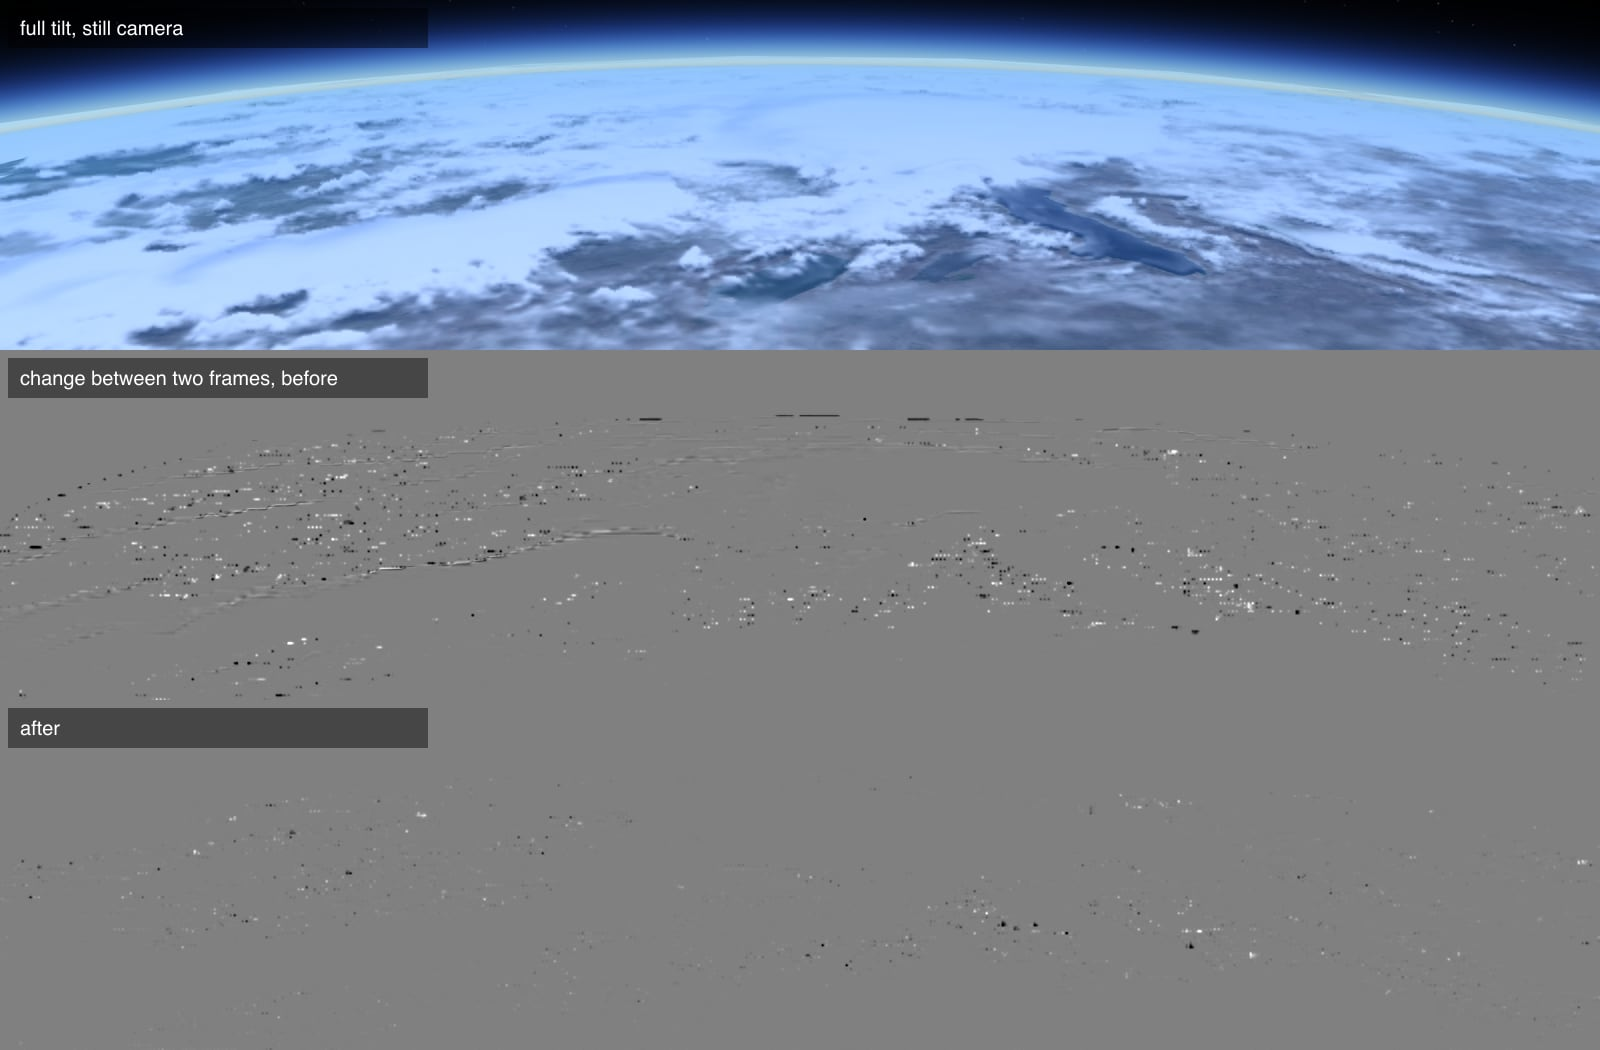
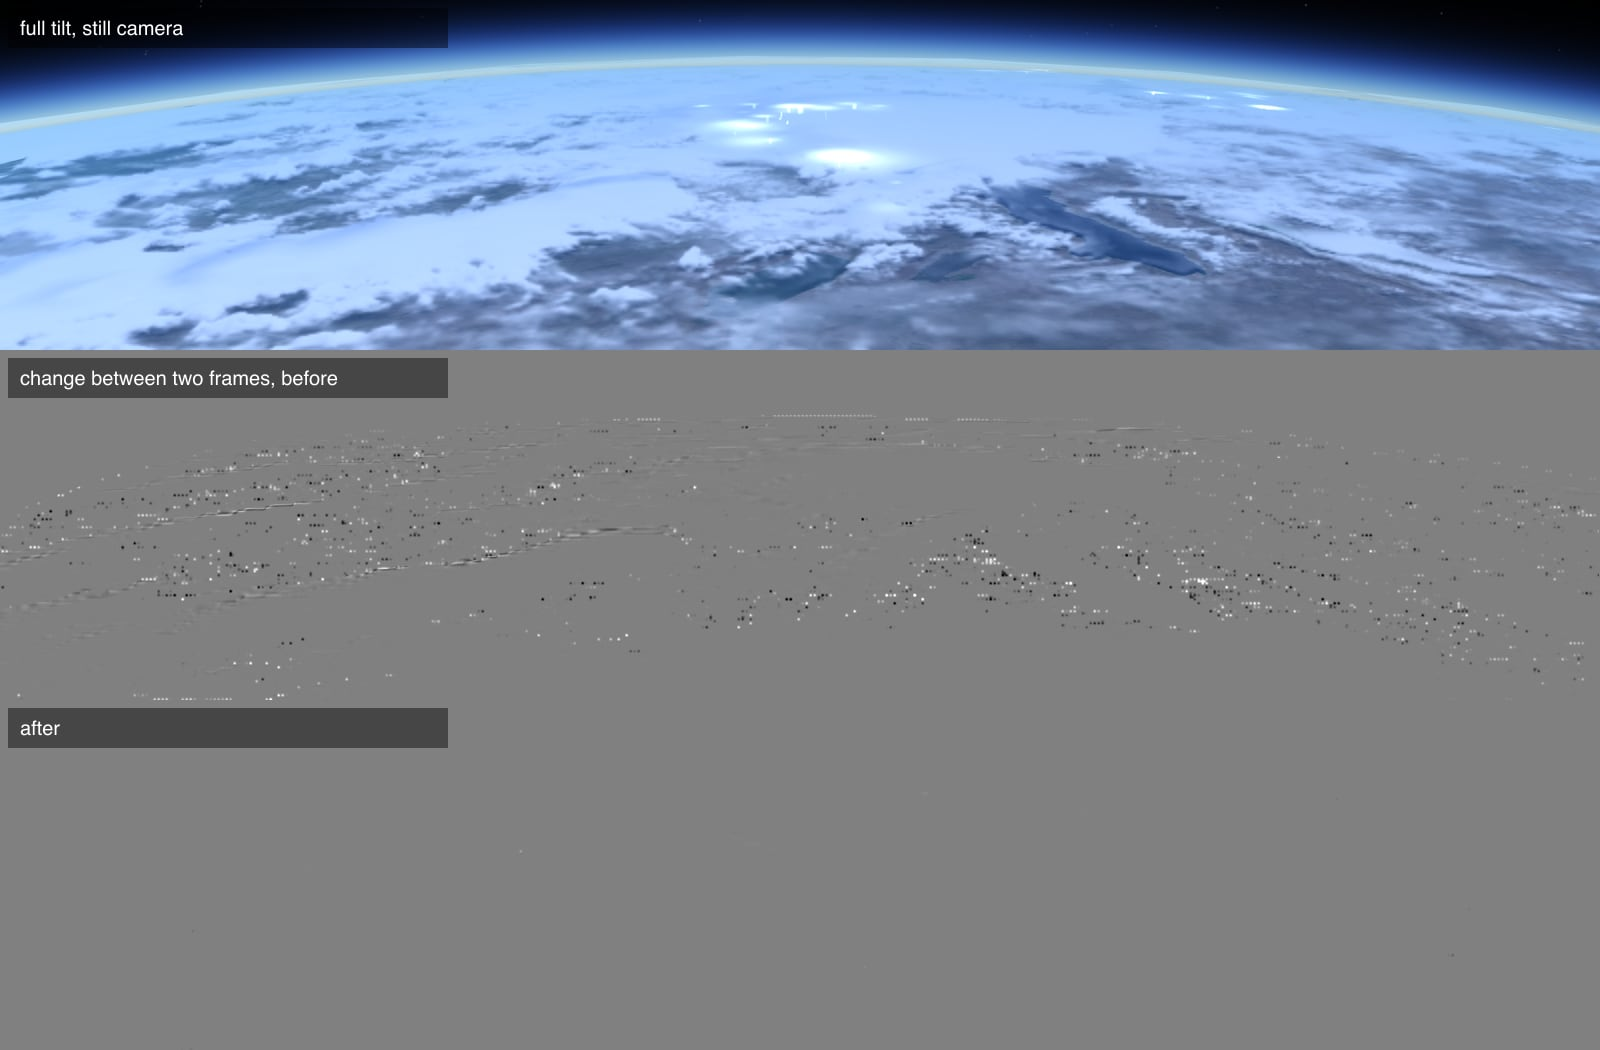
docs: record how a still view settles and holds its clouds

diff --git a/docs/cloud-look.md b/docs/cloud-look.md
@@ -265,35 +265,41 @@ the ten strongest storms of each day.
 
 ## Steady in motion
 
-Zooming and tilting made the clouds vibrate (#440), most of all toward the horizon at full tilt.
-Measured frame by frame in headless Chromium, the camera's own motion taken out, three causes:
+Zooming and tilting made the clouds vibrate (#440), most of all toward the horizon at full tilt, and
+even a still picture never quite held. Measured frame by frame in headless Chromium, the camera's own
+motion taken out, four causes:
 
-- **Sparkling cloud edges while the view moves**: the volume marches a quarter of its pixels per
-  frame with jittered rays; each new ray weighed 35 % and showed as a dot wherever it hit or missed
-  a cloud edge, at another pixel every frame. A moving view now keeps its rays in place, spreads each
-  new ray over its neighbours and gives it 20 %.
-- **Shimmer toward the horizon, even with a still camera**: a ray grazing far clouds hits or misses
-  them at random, which passed for a change of cover and let it weigh 60 %; and the relief light was
-  read at the height this frame's rays saw, so each km of jitter moved the lookup by tens of km. A
-  change of cover is now read over four rays, and the relief light where the line of sight crosses
-  the tops the field holds.
+- **A still picture that kept boiling**: the volume marches a quarter of its pixels per frame with
+  jittered rays and kept each new one at 5 %, so the picture never settled; it was clamped to the
+  four rays around, which a ray grazing far clouds often all miss, and any ray that hit or missed a
+  cloud passed for a change of cover (60 %). A still view now averages every ray since it stopped,
+  down to 1/128 a ray, held within the sixteen rays around, and a change of cover counts only beyond
+  what those rays disagree on.
+- **Relief light shimmering toward the horizon**: it was read at the height this frame's rays saw,
+  so each km of jitter moved the lookup by tens of km in a grazing view. It is now read where the
+  line of sight crosses the tops the field holds.
+- **Sparkling cloud edges while the view moves**: each new ray weighed 35 % and showed as a dot. A
+  moving view now keeps its rays in place, spreads each new ray over its neighbours and gives it 20 %.
 - **Dark band toward the horizon**: the flat layer stepped aside wherever heights were known on its
   13 km shell, while the volume met lower clouds further along the line of sight, past the heights
   it knew. The layer now also checks where its line of sight comes down to 0.5 km.
 
-Pixels changing by more than 12 grey levels from one frame to the next once the camera's motion is
-taken out, 1600 × 1000 at 2×, same data before and after:
+Pixels changing by more than 4 and by more than 12 grey levels from one frame to the next once the
+camera's motion is taken out, 1600 × 1000 at 2×, same data before and after:
 
-| Camera | Before | After |
-|---|---|---|
-| Still at the floor, full tilt | 0.61 % | 0.13 % |
-| Turning 4° at the floor, full tilt | 0.55 % | 0.08 % |
-| Tilting 86° to 90° at the floor | 0.35 % | 0.01 % |
-| Still at 700 km, tilted 58° | 0.165 % | 0.016 % |
-| Tilting 50° to 54° at 450 km | 0.145 % | 0.014 % |
-| Tilting 0° to 80° at 450 km | 0.81 % | 0.43 % |
-| Zoom 2,600 to 500 km, tilted 45° | 0.162 % | 0.034 % |
-| Zoom 3,000 to 500 km, straight down | 0.036 % | 0.015 % |
+| Camera | Before > 4 | After > 4 | Before > 12 | After > 12 |
+|---|---|---|---|---|
+| Still at the floor, full tilt | 2.7 % | 0.006 % | 0.60 % | 0.001 % |
+| Still at 700 km, tilted 58° | 0.83 % | 0.001 % | 0.16 % | 0.0001 % |
+| Turning 4° at the floor, full tilt | 3.2 % | 0.63 % | 0.54 % | 0.013 % |
+| Tilting 86° to 90° at the floor | 2.4 % | 0.21 % | 0.46 % | 0.021 % |
+| Tilting 50° to 54° at 450 km | 1.4 % | 0.24 % | 0.145 % | 0.012 % |
+| Tilting 0° to 80° at 450 km | 5.2 % | 4.1 % | 0.81 % | 0.47 % |
+| Zoom 2,600 to 500 km, tilted 45° | 1.7 % | 0.53 % | 0.162 % | 0.031 % |
+| Zoom 3,000 to 500 km, straight down | 1.0 % | 0.62 % | 0.036 % | 0.015 % |
+
+After a stop the picture settles within a second and then holds; after a 25 min jump in scene time a
+still view meets the picture drawn directly at the new time within 20 frames.
 
 Full tilt with a still camera, and what changes between two frames:
 ![Steady toward the horizon](immersive/cloud-look/horizon.jpg)

diff --git a/docs/immersive-view.md b/docs/immersive-view.md
@@ -493,19 +493,21 @@ captures and the comparison with ISS photographs are in [cloud look](cloud-look.
   place, frames, tiles or sun change (at most one every other frame); windows fade into each other
   near their edges. Above the march only the coarse windows are baked, one at a time, and a window
   moves only once the view has gone 32 of its texels.
-- **March**: half the CSS resolution, a quarter of the pixels per frame, the rest reprojected at
-  the depth the march returns; at most 48 crossings per ray (`high`) or 40 (`medium`). Each column
-  crossing is integrated in one piece, sunlight falling with depth below the top in closed form,
-  so the picture does not depend on where steps fall. While the view holds still, steps and rays get
-  low-discrepancy offsets that a history averages, shortened where the cover of four neighbouring
-  rays changes. While it moves, rays stay in place, each new ray is spread over its neighbours and
-  weighs 20 %, and the history is clamped to what was just marched, so cloud edges do not sparkle.
-  Flashes light the cloud around them from the flash light map, added in the composite so the glow
-  is never delayed. Sunlit tops take the flat layer's white and its √(sin elevation) dimming, and
-  under a high sun the exposure comes down; a highlight shoulder keeps them below white. The
-  composite draws the relief light at full resolution after the shoulder, at every height, where
-  the line of sight crosses the tops the field holds; the march keeps the light through the
-  columns, the walls and the sky. The atmosphere hazes the volume as it hazes the flat layer.
+- **March**: half the CSS resolution, a quarter of the pixels per frame, the rest reprojected at the
+  depth the march returns; at most 48 crossings per ray (`high`) or 40 (`medium`). Each column
+  crossing is integrated in one piece, sunlight falling with depth below the top in closed form, so
+  the picture does not depend on where steps fall. While the view holds still, steps and rays get
+  low-discrepancy offsets that a history averages ever more finely (down to 1/128 a ray), held
+  within the sixteen rays around and shortened only where cover changes beyond what they disagree
+  on, so the picture settles and holds. While it moves, rays stay in place, each new ray is spread
+  over its neighbours and weighs 20 %, and the history is clamped to the four rays around, so cloud
+  edges do not sparkle. Flashes light the cloud around them from the flash light map, added in the
+  composite so the glow is never delayed. Sunlit tops take the flat layer's white and its √(sin
+  elevation) dimming, and under a high sun the exposure comes down; a highlight shoulder keeps them
+  below white. The composite draws the relief light at full resolution after the shoulder, at every
+  height, where the line of sight crosses the tops the field holds; the march keeps the light
+  through the columns, the walls and the sky. The atmosphere hazes the volume as it hazes the flat
+  layer.
 - **Ground**: the Earth shader darkens sunlight by the baked transmittance at the ground.
 - **Tiers**: `high` (half the CSS size) and `medium` (0.4); `low` and phones keep the unshaded flat layer
   until a real phone is measured. In development and PR previews, `?clouds=flat|columns` and
